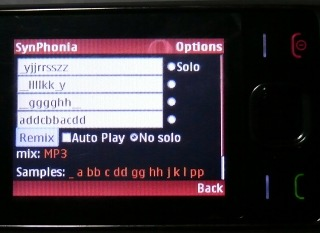
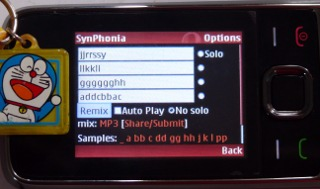
No share/submit when empty/bad mix
Also help text for share/submit and new phone-shot to go with it.

diff --git a/index.html b/index.html
@@ -15,12 +15,12 @@
     <h3>SynPhonia - a cellular friendly web-based musical toy</h3>
 
     <p>To start playing music right away, <b>just go <a href=
-    "synphonia.py?c0=_yjjrrsszz&c1=__llllkk_y&c2=__gggghh__&c3=addcbbacdd&s=-1">here</a>.</b><br />
-
-    Musician: Want to have such a toy with your own sounds? See
-    <a target="_blank" href=
+    "synphonia.py?c0=_yjjrrsszz&amp;c1=__llllkk_y&amp;c2=__gggghh__&amp;c3=addcbbacdd&amp;s=-1">
+    here</a>.</b><br />
+    <b>Musician:</b> Want to have such a toy with your own sounds?
+    See <a target="_blank" href=
     "http://wiki.github.com/thedod/SynPhonia/">here</a> how.<br />
-    Geek: Just <a href=
+    <b>Geek:</b> Just <a href=
     "http://github.com/thedod/SynPhonia/">clone</a> it ;)</p>
 
     <p><b>Instructions</b><br />
@@ -30,19 +30,26 @@
     twice longer to play than <i>a</i>). In other words: each
     letter represents a musicar bar.<br />
     The special sound <i>_</i> represents silence.<br />
-    The <i>AutoPlay</i> checkbox can save you the extra click
-    on the mix's player button (a matter of personal taste).</p>
-    <p>If you want to hear how a track sounds by itself, you can select
-    the <i>Solo</i> radio button to the right of it, and remix.
-    To go back to the full mix, click on <i>No solo</i>.
+    The <i>AutoPlay</i> checkbox can save you the extra click on
+    the mix's player button (a matter of personal taste).</p>
+
+    <p>If you want to hear how a track sounds by itself, you can
+    select the <i>Solo</i> radio button to the right of it, and
+    remix. To go back to the full mix, click on <i>No solo</i>.</p>
+
+    <p>Once you have a mix you're proud of, you can use the
+    _Share/Submit_ link in order to share your mix in social and/or
+    submit your mix to us. You'll also see a short url for your
+    mix. You can copy/paste it into mail, chat, etc.</p>
+
     <p><img width="240" align="left" hspace="8" src=
     "phone-shot.jpg" alt="SynPhonia on a phone. Yah." /> You can
     also try <b>j.mp/synpho</b> from your phone. The only
     difference is that on not-so-smart-phones (like the one in the
     picture) you won't see the cute little player buttons (this
-    also means the <i>AutoPlay</i> checkbox won't do anything), but you
-    can still click on the links to the mix and the samples, and if
-    your phone can play mp3, you can party.</p>
+    also means the <i>AutoPlay</i> checkbox won't do anything), but
+    you can still click on the links to the mix and the samples,
+    and if your phone can play mp3, you can party.</p>
 
     <p>Enjoy,<br />
     @<a target="_blank" href=

diff --git a/synphonia.py b/synphonia.py
@@ -71,7 +71,7 @@ PAGE_TEMPLATE="""<!DOCTYPE html PUBLIC "-//W3C//DTD XHTML 1.0 Strict//EN" "http:
  <body> 
   {form}
   {errors}
-  {mix} [<a target="_blank" href="ugcurl/">Share/submit</a>]
+  {mix}{sharelink}
   <hr/>
   Samples: {samples}<br/>
   {credits}
@@ -278,9 +278,10 @@ def do_cgi():
     mix_html=track and  """<span class="mix">mix: {0}</span>""".format(
                            TRACK_TEMPLATE.format(path=MIX_URL,track=track,title='MP3',
                                                  flash_args=autoplay and "&autoplay=true" or "")) or ""
+    sharelink=track and """ [<a target="_blank" href="ugcurl/">Share/Submit</a>]""" or ""
     samples_html=''.join([TRACK_TEMPLATE.format(path=SAMPLE_URL,track=s,title=s,flash_args="") for s in SAMPLE_NAMES])
     page_html=PAGE_TEMPLATE.format(flash_player_url=FLASH_PLAYER_URL,form=form_html,credits=CREDITS,
-                                   errors=errors_html,mix=mix_html,samples=samples_html)
+                                   errors=errors_html,mix=mix_html,samples=samples_html,sharelink=sharelink)
     print """Content-type:text/html; charset=utf-8
 
 {0}""".format(page_html)
